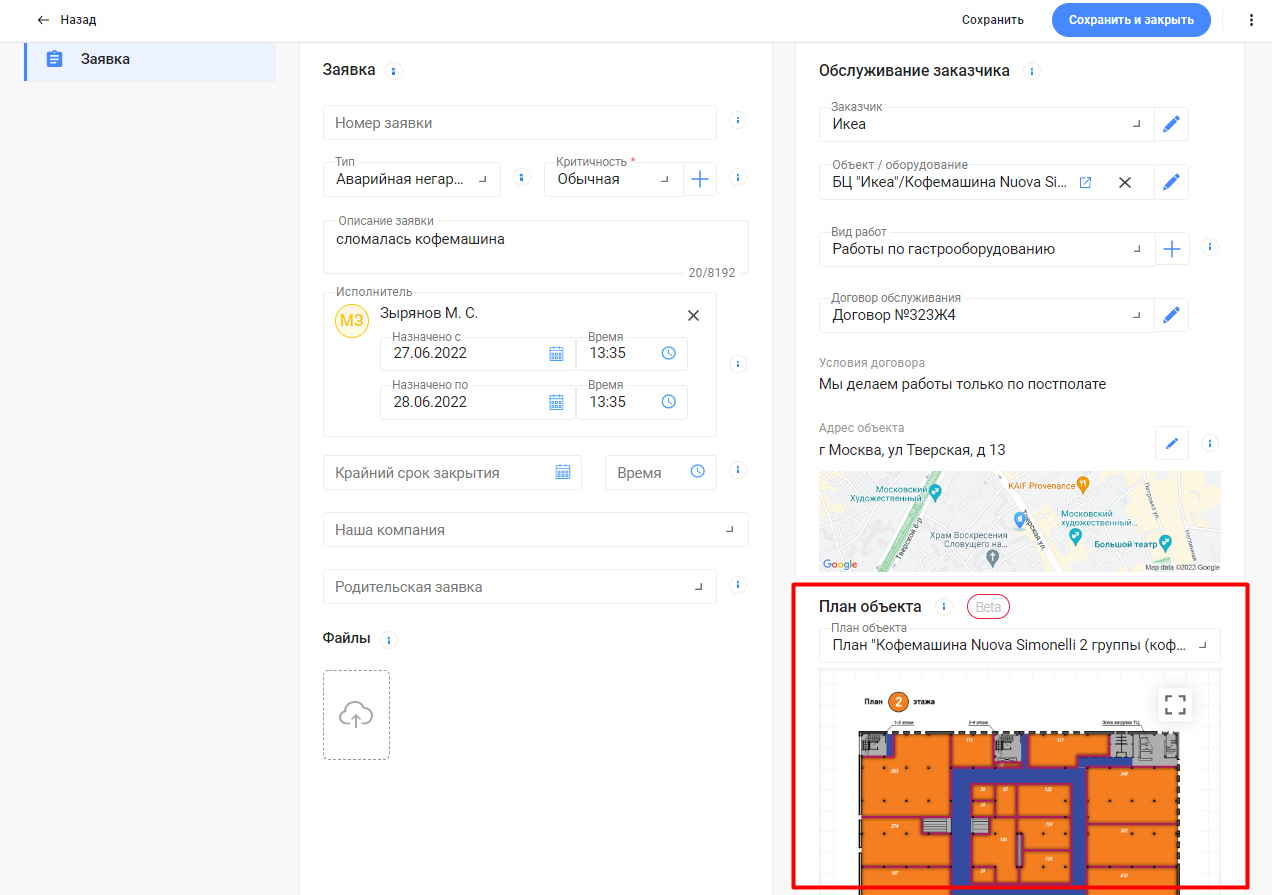
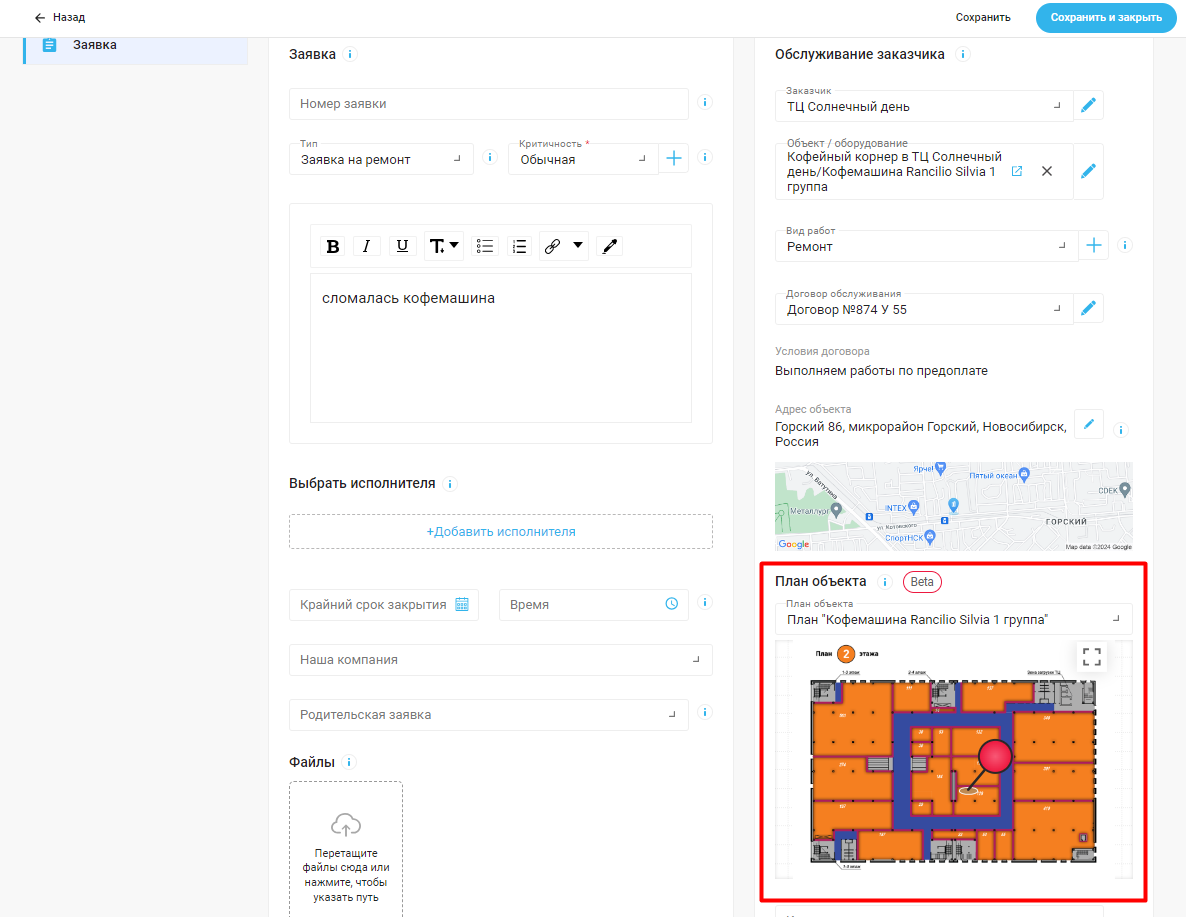
план объекта

diff --git a/docs/FAQ/RU/user/FloorPlan.md b/docs/FAQ/RU/user/FloorPlan.md
@@ -20,7 +20,7 @@ keywords:  hubex, хабекс, хубекс, хабикс
 </html>
 <body>
 <p>Использование планов помещений позволяет сократить затраты времени на поиск и устранение неисправностей: при подаче
-    <Strong>Заявки</Strong> можно указать точное местоположение проблемы на карте бизнес-центра. </p>
+    <Strong>Заявки</Strong> можно посмотреть или указать новое местоположение проблемы на карте бизнес-центра. </p>
 
 <p>Также любой заказчик при подаче <Strong>Заявки</Strong> через мобильное приложение может сфотографировать неисправное оборудование и
     отметить его расположение на плане.</p>
@@ -40,13 +40,26 @@ keywords:  hubex, хабекс, хубекс, хабикс
 </div>
 
 
-<p>Расположение объекта можно отмечать при подаче <Strong>Заявки</Strong> в web-приложении и через мобильные приложения заказчика и
+<p>Расположение объекта можно отмечать на плане в самой карточке <Strong>Объекта</Strong>. Такое расположение будет считаться расположением по умолчанию. Его можно изменять при подаче <Strong>Заявки</Strong> в web-приложении и через мобильные приложения заказчика и
     исполнителя.</p>
 
+<p>Чтобы указать расположение по умолчанию в карточке самого <Strong>Объекта</Strong>, необходимо щелкнуть на добавленный план и в открывшемся окошке щелкнуть левой кнопкой мыши по месту, где физически располагается
+    <Strong>Объект</Strong>. На выбранном месте отобразится пин (булавка). Чтобы сохранить расположение, нажмите кнопку <Strong>Сохранить</Strong> или <Strong>Сохранить и закрыть</Strong>.</p>
+
+<p>Заданное расположение по умолчанию будет отображаться на плане при подаче <Strong>Заявки</Strong>. При необходимости расположение места поломки или объекта можно будет изменить прямо в <Strong>Заявке</Strong>. </p>
+  <div>
+    <img style="margin: 0 auto; display: block; max-width: 80%;"
+         src="/attachments/images/FAQ/USER/FloorPlan/PlanInObject.jpg"/>
+</div>  
+
 <h5 id="planinticketweb">Расположение Объекта на плане при подаче Заявки в web-приложении</h5>
-<p>При подаче <Strong>Заявки</Strong> на форме под адресом располагается <Strong>План объекта</Strong>. Чтобы указать положение <Strong>Объекта</Strong>, необходимо
-    щелкнуть на план и в открывшемся окошке щелкнуть правой кнопкой мыши по месту, где физически располагается
+<p>При подаче <Strong>Заявки</Strong> на форме под адресом располагается <Strong>План объекта</Strong>. Если расположение было установлено в карточке <Strong>Объекта</Strong>, оно будет отображаться на плане. Если расположение не было установлено, то план будет пустым. </p>
+
+<p>Чтобы установить или изменить положение <Strong>Объекта</Strong>, необходимо
+    щелкнуть на план и в открывшемся окошке щелкнуть левой кнопкой мыши в место, где физически располагается
     <Strong>Объект</Strong> или место поломки. На выбранном месте отобразится пин (булавка). </p>
+
+ <p>Обратите внимание! При установке нового месторасположения в <Strong>Заявке</Strong> расположение по умолчанию в карточке <Strong>Объекта</Strong> изменено НЕ будет. </p>   
 
 <div>
     <img style="margin: 0 auto; display: block; max-width: 80%;"
@@ -91,8 +104,8 @@ keywords:  hubex, хабекс, хубекс, хабикс
 
 
 
-<p>Указать расположение <Strong>Объекта</Strong> на плане можно при заполнении <Strong>Заявки</Strong>. Для этого необходимо на форме <Strong>Заявки</Strong> нажать на
-    область с планом и установить метку.</p>
+<p>Если в карточке <Strong>Объекта</Strong> было задано расположение по умолчанию, оно будет отображено на плане. Изменить расположение <Strong>Объекта</Strong> на плане можно при заполнении <Strong>Заявки</Strong>. Для этого необходимо на форме <Strong>Заявки</Strong> нажать на
+    область с планом и установить метку. Если расположение по умолчанию не было задано, то план будет отображаться без пина.</p>
 
 <div>
     <img style="margin: 0 auto; display: block; max-width: 65%;"
@@ -100,6 +113,7 @@ keywords:  hubex, хабекс, хубекс, хабикс
 </div>
 
 <p>Чтобы изменить расположение метки, необходимо нажать на план, нажать кнопку <Strong>Изменить</Strong> и, удерживая нажатие на плане, двигать его, чтобы указать новую позицию для <Strong>Объекта</Strong>. После того как вы измените положение, нажмите одну из двух кнопок:</p>
+
 <ul>
     <li>зеленая галочка: применить изменение местоположения;</li>
     <li>крестик: не применять изменение.</li>
